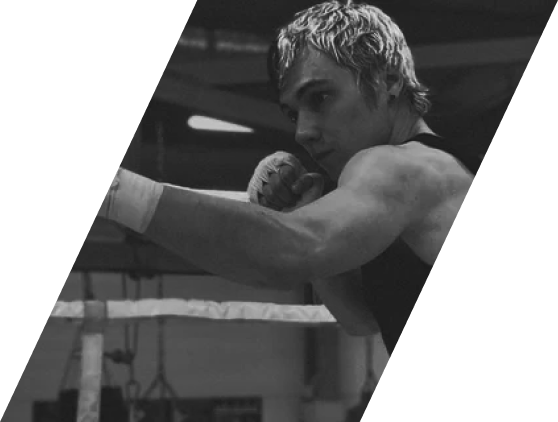
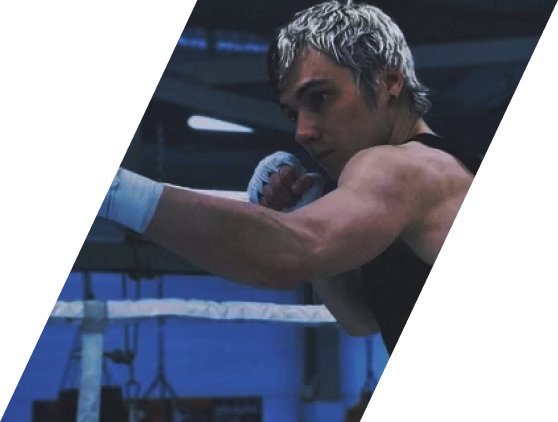
pravka two

diff --git a/news.html b/news.html
@@ -329,39 +329,6 @@
                                     </h6>
                                 </a>
                             </div>
-                            <div class="swiper-slide">
-                                <a href="#" class="news_card">
-                                    <div class="new_card_img">
-                                        <img src="./images/news1.png" alt="">
-                                        <div class="card_bg"></div>
-                                    </div>
-                                    <h6>
-                                        Год назад Анубиса возненавидели в Дагестане за клип про Хабиба. Сегодня он — звезда боев на голых кулаках
-                                    </h6>
-                                </a>
-                            </div>
-                            <div class="swiper-slide">
-                                <a href="#" class="news_card">
-                                    <div class="new_card_img">
-                                        <img src="./images/news2.png" alt="">
-                                        <div class="card_bg"></div>
-                                    </div>
-                                    <h6>
-                                        Год назад Анубиса возненавидели в Дагестане за клип про Хабиба. Сегодня он — звезда боев на голых кулаках
-                                    </h6>
-                                </a>
-                            </div>
-                            <div class="swiper-slide">
-                                <a href="#" class="news_card">
-                                    <div class="new_card_img">
-                                        <img src="./images/news3.png" alt="">
-                                        <div class="card_bg"></div>
-                                    </div>
-                                    <h6>
-                                        Год назад Анубиса возненавидели в Дагестане за клип про Хабиба. Сегодня он — звезда боев на голых кулаках
-                                    </h6>
-                                </a>
-                            </div>
                         </div>
                         <div class="news_pagination">
                             <div class="swiper-scrollbar"></div>

diff --git a/css/style.css b/css/style.css
@@ -1353,6 +1353,9 @@ h4 {
 .coperation .swiper-wrapper .swiper-slide:hover {
   background-color: #E63533;
 }
+.coperation .swiper-wrapper .swiper-slide:hover img {
+  filter: grayscale(100%);
+}
 .coperation .swiper-wrapper .swiper-slide-active img {
   filter: grayscale(0%);
 }
@@ -1532,13 +1535,13 @@ h4 {
 .news .swiper-wrapper {
   margin-bottom: 36px;
 }
-.news .swiper-wrapper .swiper-slide-active img {
+.news .swiper-wrapper .swiper-slide:hover img {
   filter: grayscale(0%);
 }
-.news .swiper-wrapper .swiper-slide-active h6 {
+.news .swiper-wrapper .swiper-slide:hover h6 {
   color: #E63533;
 }
-.news .swiper-wrapper .swiper-slide-active .card_bg {
+.news .swiper-wrapper .swiper-slide:hover .card_bg {
   background-color: #E63533;
 }
 .news .news_pagination {
@@ -1894,6 +1897,9 @@ h4 {
 .video .video_card:hover .video_main_img {
   filter: grayscale(0%);
 }
+.video .video_card:hover h6 {
+  color: #E63533;
+}
 .video .video_card:hover p {
   opacity: 1;
 }
@@ -1931,7 +1937,7 @@ h4 {
 }
 .video h6 {
   margin-top: 40px;
-  color: #E63533;
+  color: #FFF;
   font-family: "Bebas Neue", sans-serif;
   font-size: 32px;
   font-weight: 700;

diff --git a/css/style.scss b/css/style.scss
@@ -1647,6 +1647,10 @@ h4 {
             }
 
             &:hover {
+
+                img {
+                    filter: grayscale(100%);
+                }
                 background-color: $--Primary-Red;
             }
         }
@@ -1858,7 +1862,7 @@ h4 {
     .swiper-wrapper {
         margin-bottom: 36px;
 
-        .swiper-slide-active {
+        .swiper-slide:hover{
             img {
                 filter: grayscale(0%);
             }
@@ -2346,6 +2350,10 @@ h4 {
                 filter: grayscale(0%);
             }
 
+            h6 {
+                color: $--Primary-Red;
+            }
+
             p {
                 opacity: 1;
             }
@@ -2392,7 +2400,7 @@ h4 {
 
     h6 {
         margin-top: 40px;   
-        color: $--Primary-Red;
+        color: $--Primary-White;
         font-family: $Bebas;
         font-size: 32px;
         font-weight: 700;

diff --git a/css/_responsive.scss b/css/_responsive.scss
@@ -973,6 +973,7 @@
         .mobile_menu_close {
             z-index: 2;
         }
+        
         .logo {
             a {
                 position: relative;
